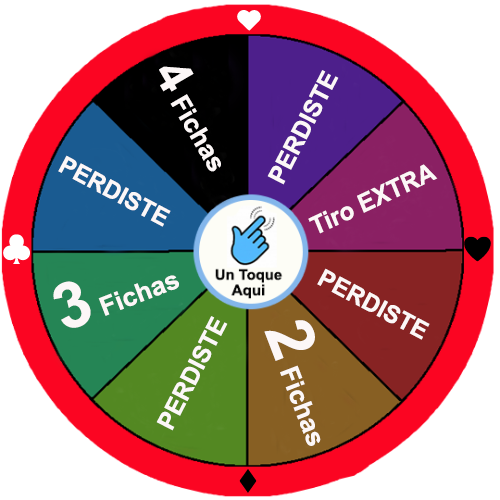
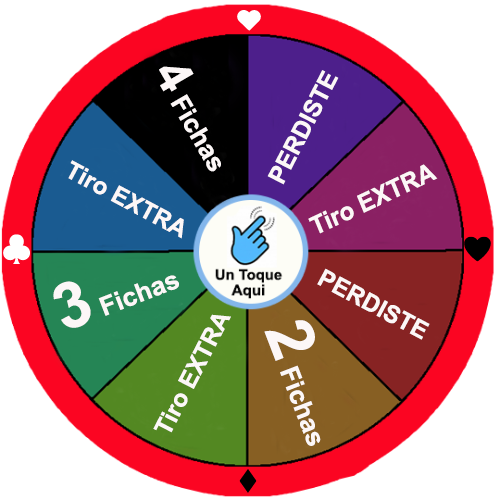
Update ruleta

Changed region(s): [[0.12, 0.3, 0.39, 0.48], [0.3, 0.63, 0.48, 0.87]]

diff --git a/src/app/ruleta/ruleta.component.ts b/src/app/ruleta/ruleta.component.ts
@@ -82,13 +82,13 @@ export class RuletaComponent {
           this.premio("4 FICHAS")
           break;
         case this.valor > 45 && this.valor <= 90:
-          this.premio("PERDISTE")
+          this.premio("UN TIRO EXTRA")
           break;
         case this.valor > 90 && this.valor <= 135:
            this.premio("3 FICHAS")
           break;  
         case this.valor > 135 && this.valor <= 180:
-           this.premio("PERDISTE")
+           this.premio("UN TIRO EXTRA")
           break;
         case this.valor > 180 && this.valor <= 225 :
           this.premio("2 FICHAS")
